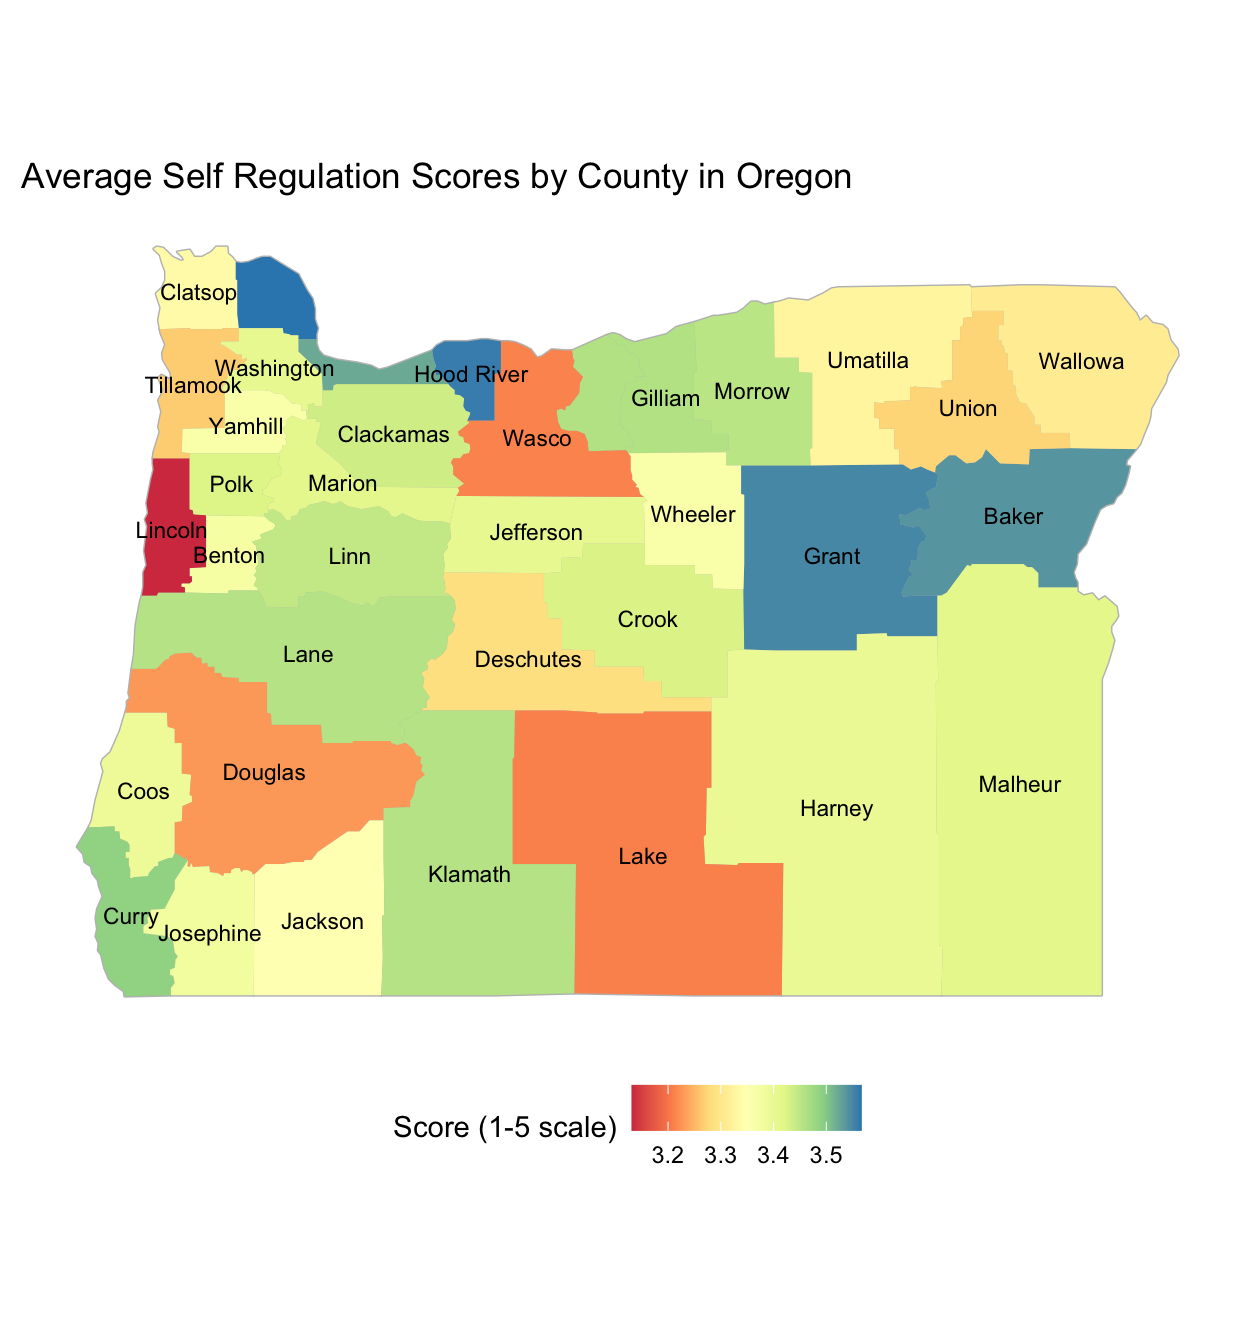
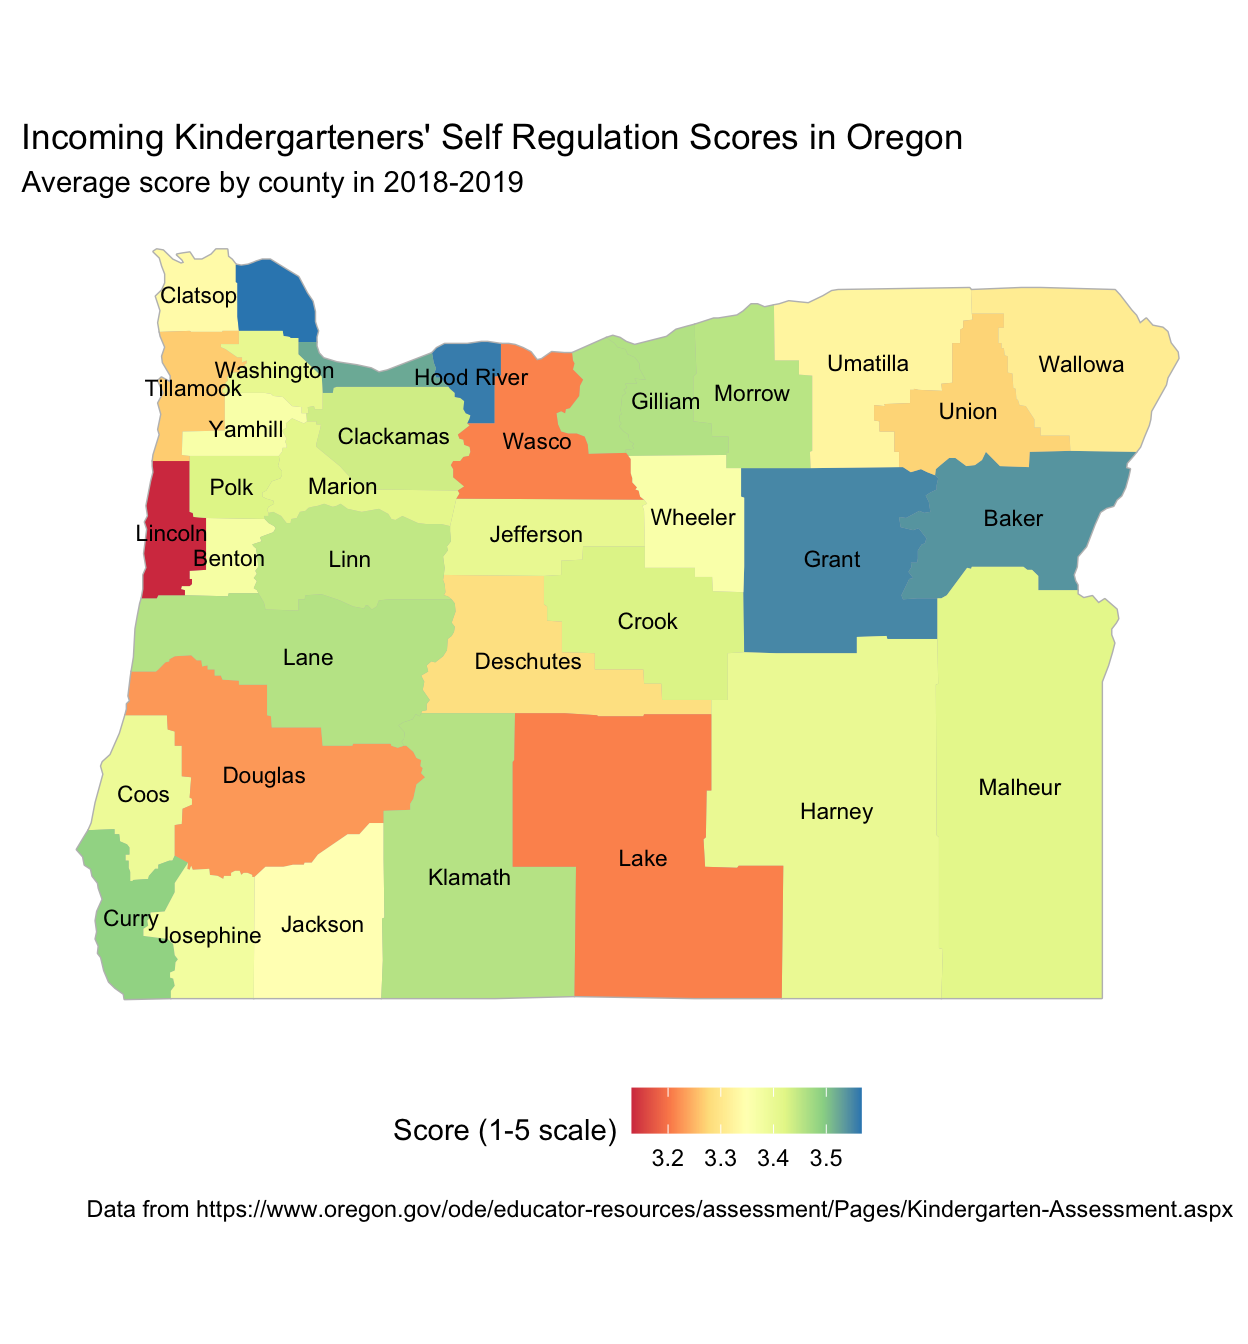
viz1 refining

diff --git a/_posts/viz1/viz1.html b/_posts/viz1/viz1.html
@@ -49,7 +49,7 @@
   <!--/radix_placeholder_rmarkdown_metadata-->
   
   <script type="text/json" id="radix-resource-manifest">
-  {"type":"character","attributes":{},"value":["viz1/bowser-1.9.3/bowser.min.js","viz1/core-js-2.5.3/LICENSE","viz1/core-js-2.5.3/package.json","viz1/core-js-2.5.3/shim.min.js","viz1/distill-2.2.21/template.v2.js","viz1/figure-html5/unnamed-chunk-1-1.png","viz1/figure-html5/unnamed-chunk-2-1.png","viz1/figure-html5/Viz #1 Refining-1.png","viz1/figure-html5/Viz #1-1.png","viz1/figure-html5/viz1-1.png","viz1/figure-html5/viz1-refining-1.png","viz1/htmlwidgets-1.5.1/htmlwidgets.js","viz1/jquery-1.11.3/jquery.min.js","viz1/react-16.12.0/AUTHORS","viz1/react-16.12.0/LICENSE.txt","viz1/react-16.12.0/react-dom.min.js","viz1/react-16.12.0/react.min.js","viz1/reactable-binding-0.1.0/reactable.js","viz1/reactwidget-1.0.0/react-tools.js","viz1/reactwidget-1.0.0/react-tools.js.map","viz1/webcomponents-2.0.0/webcomponents.js","viz1_files/bowser-1.9.3/bowser.min.js","viz1_files/core-js-2.5.3/LICENSE","viz1_files/core-js-2.5.3/package.json","viz1_files/core-js-2.5.3/shim.min.js","viz1_files/distill-2.2.21/template.v2.js","viz1_files/figure-html5/unnamed-chunk-1-1.png","viz1_files/figure-html5/unnamed-chunk-2-1.png","viz1_files/figure-html5/unnamed-chunk-3-1.png","viz1_files/figure-html5/unnamed-chunk-4-1.png","viz1_files/figure-html5/viz1-1.png","viz1_files/figure-html5/viz1-refining-1.png","viz1_files/figure-html5/viz1-vers1-1.png","viz1_files/figure-html5/viz1-vers2-1.png","viz1_files/figure-html5/viz1-vers3-1.png","viz1_files/figure-html5/viz1-vers4-1.png","viz1_files/figure-html5/viz1-vers5-1.png","viz1_files/htmlwidgets-1.5.1/htmlwidgets.js","viz1_files/jquery-1.11.3/jquery.min.js","viz1_files/react-16.12.0/AUTHORS","viz1_files/react-16.12.0/LICENSE.txt","viz1_files/react-16.12.0/react-dom.min.js","viz1_files/react-16.12.0/react.min.js","viz1_files/reactable-binding-0.1.0/reactable.js","viz1_files/reactwidget-1.0.0/react-tools.js","viz1_files/reactwidget-1.0.0/react-tools.js.map","viz1_files/webcomponents-2.0.0/webcomponents.js"]}
+  {"type":"character","attributes":{},"value":["viz1/bowser-1.9.3/bowser.min.js","viz1/core-js-2.5.3/LICENSE","viz1/core-js-2.5.3/package.json","viz1/core-js-2.5.3/shim.min.js","viz1/distill-2.2.21/template.v2.js","viz1/figure-html5/unnamed-chunk-1-1.png","viz1/figure-html5/unnamed-chunk-2-1.png","viz1/figure-html5/Viz #1 Refining-1.png","viz1/figure-html5/Viz #1-1.png","viz1/figure-html5/viz1-1.png","viz1/figure-html5/viz1-refining-1.png","viz1/htmlwidgets-1.5.1/htmlwidgets.js","viz1/jquery-1.11.3/jquery.min.js","viz1/react-16.12.0/AUTHORS","viz1/react-16.12.0/LICENSE.txt","viz1/react-16.12.0/react-dom.min.js","viz1/react-16.12.0/react.min.js","viz1/reactable-binding-0.1.0/reactable.js","viz1/reactwidget-1.0.0/react-tools.js","viz1/reactwidget-1.0.0/react-tools.js.map","viz1/webcomponents-2.0.0/webcomponents.js","viz1_files/bowser-1.9.3/bowser.min.js","viz1_files/core-js-2.5.3/LICENSE","viz1_files/core-js-2.5.3/package.json","viz1_files/core-js-2.5.3/shim.min.js","viz1_files/distill-2.2.21/template.v2.js","viz1_files/figure-html5/unnamed-chunk-1-1.png","viz1_files/figure-html5/unnamed-chunk-2-1.png","viz1_files/figure-html5/unnamed-chunk-3-1.png","viz1_files/figure-html5/unnamed-chunk-4-1.png","viz1_files/figure-html5/unnamed-chunk-5-1.png","viz1_files/figure-html5/viz1-1.png","viz1_files/figure-html5/viz1-refining-1.png","viz1_files/figure-html5/viz1-vers1-1.png","viz1_files/figure-html5/viz1-vers2-1.png","viz1_files/figure-html5/viz1-vers3-1.png","viz1_files/figure-html5/viz1-vers4-1.png","viz1_files/figure-html5/viz1-vers5-1.png","viz1_files/htmlwidgets-1.5.1/htmlwidgets.js","viz1_files/jquery-1.11.3/jquery.min.js","viz1_files/react-16.12.0/AUTHORS","viz1_files/react-16.12.0/LICENSE.txt","viz1_files/react-16.12.0/react-dom.min.js","viz1_files/react-16.12.0/react.min.js","viz1_files/reactable-binding-0.1.0/reactable.js","viz1_files/reactwidget-1.0.0/react-tools.js","viz1_files/reactwidget-1.0.0/react-tools.js.map","viz1_files/webcomponents-2.0.0/webcomponents.js"]}
   </script>
   <!--radix_placeholder_navigation_in_header-->
   <!--/radix_placeholder_navigation_in_header-->
@@ -1008,8 +1008,8 @@ library(sp)</code></pre>
 <div class="layout-chunk" data-layout="l-body">
 <p><img src="viz1_files/figure-html5/unnamed-chunk-3-1.png" width="624" /></p>
 </div>
-<p>Last, I made some final refinements for easy readability, including making the county labels larger, using <code>str_to_title</code> for county names, putting the legend on the bottom, and adjusting the aspect ratio. I also used <code>check_overlap = TRUE</code> to manage the issue of county labels overlapping. This isn’t a full soluation, because it results in a couple of counties being unlabeled. But it was the best solution I could find for now, and it at least has most counties labeled and makes the map legible.</p>
-<div class="layout-chunk" data-layout="l-body">
+<p>Last, I made some final refinements for easy readability, including editing the title, adding a subtitle and caption, making the county labels larger, using <code>str_to_title</code> for county names, and putting the legend on the bottom. I used <code>layout=&quot;l-body=outset&quot;</code> in the code chunk settings which increased the figure size nicely. I also used the <code>geom_text</code> argument <code>check_overlap = TRUE</code> to manage the issue of county labels overlapping. This isn’t a full soluation, because it results in a couple of counties being unlabeled. But it was the best solution I could find for now, and it at least has most counties labeled and makes the map legible.</p>
+<div class="layout-chunk" data-layout="l-body-outset">
 <p><img src="viz1_files/figure-html5/unnamed-chunk-4-1.png" width="624" data-distill-preview=1 /></p>
 </div>
 <!--radix_placeholder_article_footer-->

diff --git a/docs/posts/viz1/index.html b/docs/posts/viz1/index.html
@@ -65,7 +65,7 @@
 <!--/radix_placeholder_rmarkdown_metadata-->
   
   <script type="text/json" id="radix-resource-manifest">
-  {"type":"character","attributes":{},"value":["viz1/bowser-1.9.3/bowser.min.js","viz1/core-js-2.5.3/LICENSE","viz1/core-js-2.5.3/package.json","viz1/core-js-2.5.3/shim.min.js","viz1/distill-2.2.21/template.v2.js","viz1/figure-html5/unnamed-chunk-1-1.png","viz1/figure-html5/unnamed-chunk-2-1.png","viz1/figure-html5/Viz #1 Refining-1.png","viz1/figure-html5/Viz #1-1.png","viz1/figure-html5/viz1-1.png","viz1/figure-html5/viz1-refining-1.png","viz1/htmlwidgets-1.5.1/htmlwidgets.js","viz1/jquery-1.11.3/jquery.min.js","viz1/react-16.12.0/AUTHORS","viz1/react-16.12.0/LICENSE.txt","viz1/react-16.12.0/react-dom.min.js","viz1/react-16.12.0/react.min.js","viz1/reactable-binding-0.1.0/reactable.js","viz1/reactwidget-1.0.0/react-tools.js","viz1/reactwidget-1.0.0/react-tools.js.map","viz1/webcomponents-2.0.0/webcomponents.js","viz1_files/bowser-1.9.3/bowser.min.js","viz1_files/core-js-2.5.3/LICENSE","viz1_files/core-js-2.5.3/package.json","viz1_files/core-js-2.5.3/shim.min.js","viz1_files/distill-2.2.21/template.v2.js","viz1_files/figure-html5/unnamed-chunk-1-1.png","viz1_files/figure-html5/unnamed-chunk-2-1.png","viz1_files/figure-html5/unnamed-chunk-3-1.png","viz1_files/figure-html5/unnamed-chunk-4-1.png","viz1_files/figure-html5/viz1-1.png","viz1_files/figure-html5/viz1-refining-1.png","viz1_files/figure-html5/viz1-vers1-1.png","viz1_files/figure-html5/viz1-vers2-1.png","viz1_files/figure-html5/viz1-vers3-1.png","viz1_files/figure-html5/viz1-vers4-1.png","viz1_files/figure-html5/viz1-vers5-1.png","viz1_files/htmlwidgets-1.5.1/htmlwidgets.js","viz1_files/jquery-1.11.3/jquery.min.js","viz1_files/react-16.12.0/AUTHORS","viz1_files/react-16.12.0/LICENSE.txt","viz1_files/react-16.12.0/react-dom.min.js","viz1_files/react-16.12.0/react.min.js","viz1_files/reactable-binding-0.1.0/reactable.js","viz1_files/reactwidget-1.0.0/react-tools.js","viz1_files/reactwidget-1.0.0/react-tools.js.map","viz1_files/webcomponents-2.0.0/webcomponents.js"]}
+  {"type":"character","attributes":{},"value":["viz1/bowser-1.9.3/bowser.min.js","viz1/core-js-2.5.3/LICENSE","viz1/core-js-2.5.3/package.json","viz1/core-js-2.5.3/shim.min.js","viz1/distill-2.2.21/template.v2.js","viz1/figure-html5/unnamed-chunk-1-1.png","viz1/figure-html5/unnamed-chunk-2-1.png","viz1/figure-html5/Viz #1 Refining-1.png","viz1/figure-html5/Viz #1-1.png","viz1/figure-html5/viz1-1.png","viz1/figure-html5/viz1-refining-1.png","viz1/htmlwidgets-1.5.1/htmlwidgets.js","viz1/jquery-1.11.3/jquery.min.js","viz1/react-16.12.0/AUTHORS","viz1/react-16.12.0/LICENSE.txt","viz1/react-16.12.0/react-dom.min.js","viz1/react-16.12.0/react.min.js","viz1/reactable-binding-0.1.0/reactable.js","viz1/reactwidget-1.0.0/react-tools.js","viz1/reactwidget-1.0.0/react-tools.js.map","viz1/webcomponents-2.0.0/webcomponents.js","viz1_files/bowser-1.9.3/bowser.min.js","viz1_files/core-js-2.5.3/LICENSE","viz1_files/core-js-2.5.3/package.json","viz1_files/core-js-2.5.3/shim.min.js","viz1_files/distill-2.2.21/template.v2.js","viz1_files/figure-html5/unnamed-chunk-1-1.png","viz1_files/figure-html5/unnamed-chunk-2-1.png","viz1_files/figure-html5/unnamed-chunk-3-1.png","viz1_files/figure-html5/unnamed-chunk-4-1.png","viz1_files/figure-html5/unnamed-chunk-5-1.png","viz1_files/figure-html5/viz1-1.png","viz1_files/figure-html5/viz1-refining-1.png","viz1_files/figure-html5/viz1-vers1-1.png","viz1_files/figure-html5/viz1-vers2-1.png","viz1_files/figure-html5/viz1-vers3-1.png","viz1_files/figure-html5/viz1-vers4-1.png","viz1_files/figure-html5/viz1-vers5-1.png","viz1_files/htmlwidgets-1.5.1/htmlwidgets.js","viz1_files/jquery-1.11.3/jquery.min.js","viz1_files/react-16.12.0/AUTHORS","viz1_files/react-16.12.0/LICENSE.txt","viz1_files/react-16.12.0/react-dom.min.js","viz1_files/react-16.12.0/react.min.js","viz1_files/reactable-binding-0.1.0/reactable.js","viz1_files/reactwidget-1.0.0/react-tools.js","viz1_files/reactwidget-1.0.0/react-tools.js.map","viz1_files/webcomponents-2.0.0/webcomponents.js"]}
   </script>
   <!--radix_placeholder_navigation_in_header-->
 
@@ -1376,8 +1376,8 @@ library(sp)</code></pre>
 <div class="layout-chunk" data-layout="l-body">
 <p><img src="viz1_files/figure-html5/unnamed-chunk-3-1.png" width="624" /></p>
 </div>
-<p>Last, I made some final refinements for easy readability, including making the county labels larger, using <code>str_to_title</code> for county names, putting the legend on the bottom, and adjusting the aspect ratio. I also used <code>check_overlap = TRUE</code> to manage the issue of county labels overlapping. This isn’t a full soluation, because it results in a couple of counties being unlabeled. But it was the best solution I could find for now, and it at least has most counties labeled and makes the map legible.</p>
-<div class="layout-chunk" data-layout="l-body">
+<p>Last, I made some final refinements for easy readability, including editing the title, adding a subtitle and caption, making the county labels larger, using <code>str_to_title</code> for county names, and putting the legend on the bottom. I used <code>layout=&quot;l-body=outset&quot;</code> in the code chunk settings which increased the figure size nicely. I also used the <code>geom_text</code> argument <code>check_overlap = TRUE</code> to manage the issue of county labels overlapping. This isn’t a full soluation, because it results in a couple of counties being unlabeled. But it was the best solution I could find for now, and it at least has most counties labeled and makes the map legible.</p>
+<div class="layout-chunk" data-layout="l-body-outset">
 <p><img src="viz1_files/figure-html5/unnamed-chunk-4-1.png" width="624" data-distill-preview=1 /></p>
 </div>
 <!--radix_placeholder_article_footer-->
